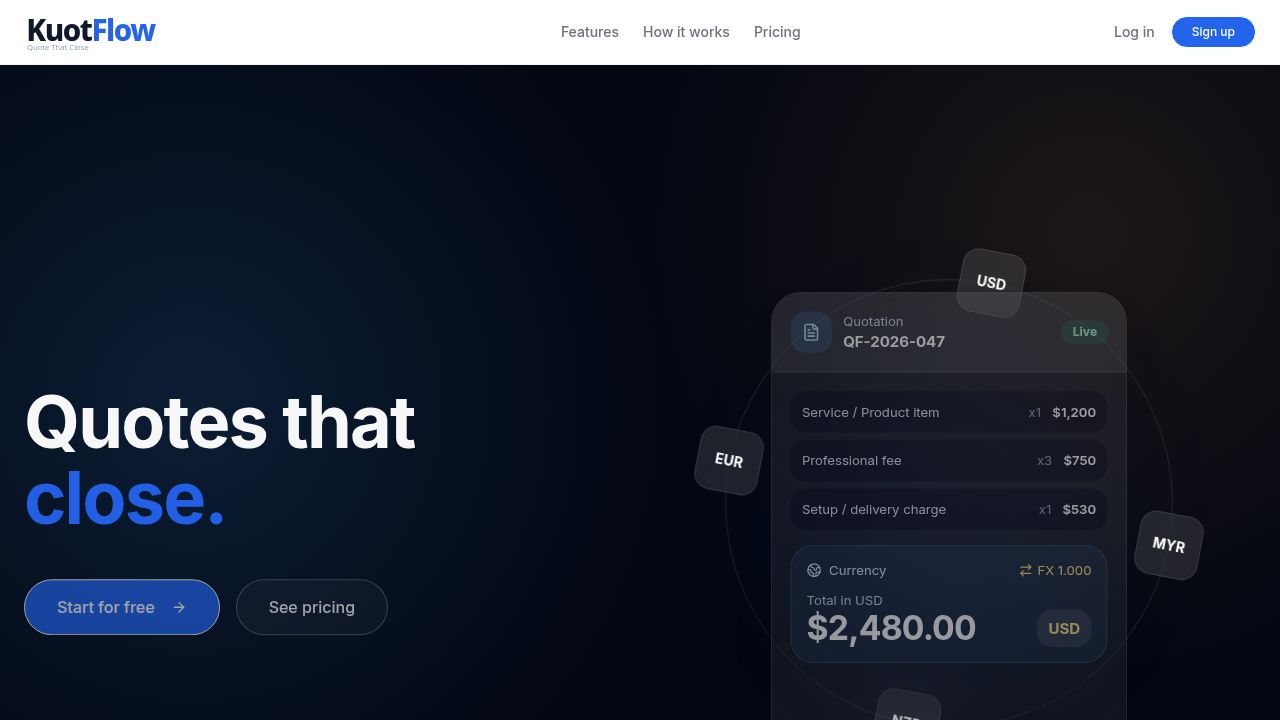
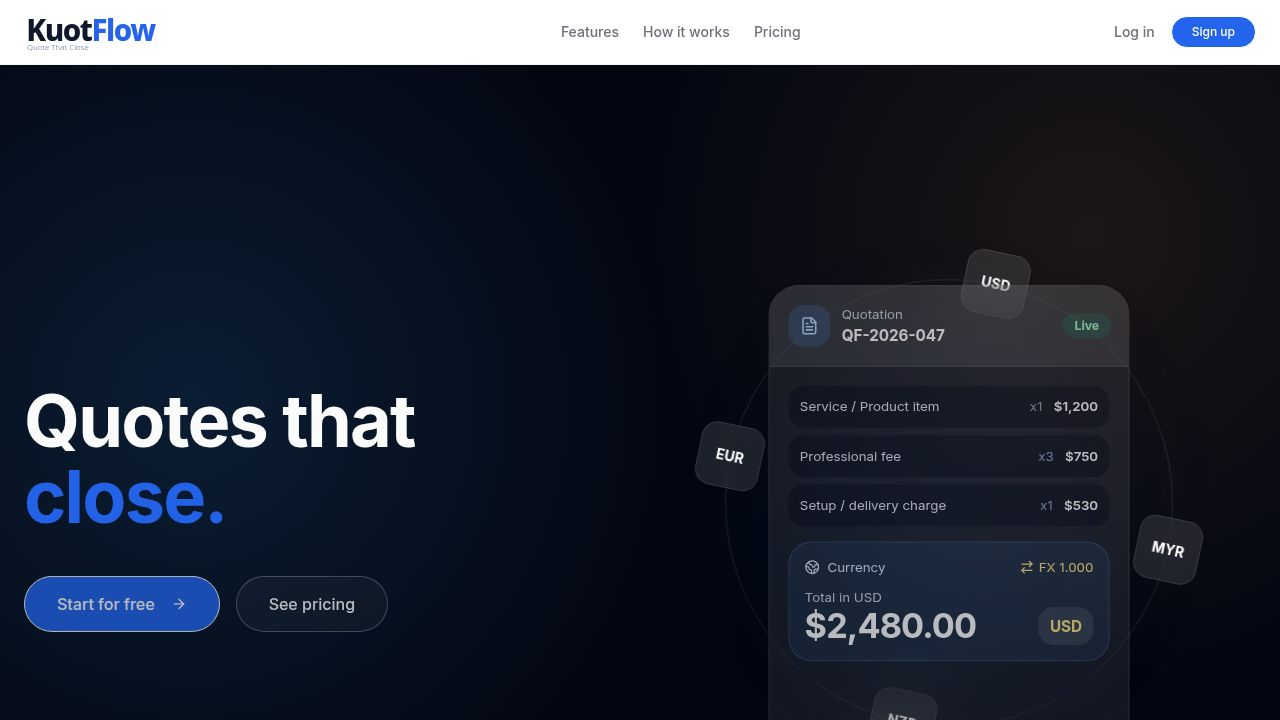
Add sitemap.xml, robots.txt, and Privacy/Terms pages for SEO (Task #172)
## What was done
- Updated `artifacts/marketing/public/sitemap.xml` to list all real routes:
  - https://procurement-quote-tool.replit.app/ (priority 1.0, weekly)
  - https://procurement-quote-tool.replit.app/privacy (priority 0.4, monthly)
  - https://procurement-quote-tool.replit.app/terms (priority 0.4, monthly)
  - Removed the hash-fragment entries (#features, #pricing, #faq) that were
    previously in the sitemap — search engines do not index anchors as pages
  - All lastmod dates updated to 2026-05-17
- `artifacts/marketing/public/robots.txt` was already correct (User-agent: *,
  Allow: /, Disallow: /app/, Sitemap pointing to canonical domain) — no changes needed
- Created `artifacts/marketing/src/pages/privacy.tsx` — full Privacy Policy page
  at /privacy route, using MarketingLayout
- Created `artifacts/marketing/src/pages/terms.tsx` — full Terms of Service page
  at /terms route, using MarketingLayout
- Updated `artifacts/marketing/src/App.tsx` to register /privacy and /terms routes
- Fixed footer links in `marketing-layout.tsx`: Privacy and Terms were pointing to
  #faq as placeholders; now correctly link to /privacy and /terms

## Deviations
- The task mentioned only sitemap.xml and robots.txt, but listing /privacy and /terms
  in the sitemap required those routes to actually exist (a sitemap pointing to 404
  pages would harm SEO). Creating the pages was therefore a necessary prerequisite.
[…]

diff --git a/artifacts/marketing/src/pages/terms.tsx b/artifacts/marketing/src/pages/terms.tsx
@@ -1,0 +1,116 @@
+import { MarketingLayout } from "@/components/layout/marketing-layout";
+
+export default function Terms() {
+  return (
+    <MarketingLayout>
+      <section className="container mx-auto px-4 md:px-6 py-16 max-w-3xl">
+        <h1 className="text-3xl font-bold mb-2">Terms of Service</h1>
+        <p className="text-muted-foreground text-sm mb-10">Last updated: May 17, 2026</p>
+
+        <div className="prose prose-neutral dark:prose-invert max-w-none space-y-8 text-sm leading-relaxed text-foreground/80">
+          <section>
+            <h2 className="text-lg font-semibold text-foreground mb-3">1. Acceptance of Terms</h2>
+            <p>
+              By creating an account or using KuotFlow ("Service"), you agree to be bound by these
+              Terms of Service. If you do not agree, do not use the Service.
+            </p>
+          </section>
+
+          <section>
+            <h2 className="text-lg font-semibold text-foreground mb-3">2. Description of Service</h2>
+            <p>
+              KuotFlow is a web-based quotation management platform for IT service providers. It
+              allows users to create, send, and track professional quotations and invoices. Features
+              are subject to change with reasonable notice.
+            </p>
+          </section>
+
+          <section>
+            <h2 className="text-lg font-semibold text-foreground mb-3">3. Account Registration</h2>
+            <p>
+              You must provide accurate information when registering. You are responsible for
+              maintaining the confidentiality of your credentials and for all activity under your
+              account. Notify us immediately at{" "}
+              <a href="mailto:[email redacted]" className="underline">[email redacted]</a>{" "}
+              if you suspect unauthorised access.
+            </p>
+          </section>
+
+          <section>
+            <h2 className="text-lg font-semibold text-foreground mb-3">4. Subscriptions and Billing</h2>
+            <p>
+              Paid plans are billed in advance on the cycle you select (daily, weekly, monthly, or
+              yearly). Payments are processed via Stripe. Subscriptions renew automatically unless
+              cancelled before the renewal date. Refunds are not provided for partial periods, except
+              where required by law.
+            </p>
+          </section>
+
+          <section>
+            <h2 className="text-lg font-semibold text-foreground mb-3">5. Acceptable Use</h2>
+            <p>You agree not to:</p>
+            <ul className="list-disc pl-5 mt-2 space-y-1">
+              <li>Use the Service for any unlawful purpose</li>
+              <li>Attempt to gain unauthorised access to our systems</li>
+              <li>Transmit spam, malware, or other harmful content</li>
+              <li>Reverse-engineer or copy the Service</li>
+              <li>Resell or sublicense access without written permission</li>
+            </ul>
+          </section>
+
+          <section>
+            <h2 className="text-lg font-semibold text-foreground mb-3">6. Intellectual Property</h2>
+            <p>
+              KuotFlow and its underlying software, design, and branding are owned by us. You retain
+              ownership of all quotation data and client information you input into the Service.
+              You grant us a limited licence to process that data solely to provide the Service.
+            </p>
+          </section>
+
+          <section>
+            <h2 className="text-lg font-semibold text-foreground mb-3">7. Limitation of Liability</h2>
+            <p>
+              To the maximum extent permitted by law, KuotFlow is provided "as is" without warranties
+              of any kind. We are not liable for indirect, incidental, or consequential damages arising
+              from your use of the Service. Our total liability shall not exceed the amount you paid us
+              in the 12 months preceding the claim.
+            </p>
+          </section>
+
+          <section>
+            <h2 className="text-lg font-semibold text-foreground mb-3">8. Termination</h2>
+            <p>
+              You may cancel your account at any time from the billing settings. We may suspend or
+              terminate accounts that violate these Terms with reasonable notice, or immediately
+              where there is a risk of harm to the Service or other users.
+            </p>
+          </section>
+
+          <section>
+            <h2 className="text-lg font-semibold text-foreground mb-3">9. Changes to Terms</h2>
+            <p>
+              We may update these Terms from time to time. We will notify you of material changes at
+              least 14 days in advance. Continued use after the effective date constitutes acceptance.
+            </p>
+          </section>
+
+          <section>
+            <h2 className="text-lg font-semibold text-foreground mb-3">10. Governing Law</h2>
+            <p>
+              These Terms are governed by the laws of England and Wales. Any disputes shall be
+              subject to the exclusive jurisdiction of the courts of England and Wales.
+            </p>
+          </section>
+
+          <section>
+            <h2 className="text-lg font-semibold text-foreground mb-3">11. Contact</h2>
+            <p>
+              Questions about these Terms? Email us at{" "}
+              <a href="mailto:[email redacted]" className="underline">[email redacted]</a>.
+            </p>
+          </section>
+        </div>
+      </section>
+    </MarketingLayout>
+  );
+}

diff --git a/artifacts/marketing/src/pages/privacy.tsx b/artifacts/marketing/src/pages/privacy.tsx
@@ -1,0 +1,96 @@
+import { MarketingLayout } from "@/components/layout/marketing-layout";
+
+export default function Privacy() {
+  return (
+    <MarketingLayout>
+      <section className="container mx-auto px-4 md:px-6 py-16 max-w-3xl">
+        <h1 className="text-3xl font-bold mb-2">Privacy Policy</h1>
+        <p className="text-muted-foreground text-sm mb-10">Last updated: May 17, 2026</p>
+
+        <div className="prose prose-neutral dark:prose-invert max-w-none space-y-8 text-sm leading-relaxed text-foreground/80">
+          <section>
+            <h2 className="text-lg font-semibold text-foreground mb-3">1. Information We Collect</h2>
+            <p>
+              We collect information you provide directly, such as your name, email address, and billing
+              information when you create an account or subscribe to a plan. We also collect usage data
+              automatically, including pages visited, features used, and device/browser information.
+            </p>
+          </section>
+
+          <section>
+            <h2 className="text-lg font-semibold text-foreground mb-3">2. How We Use Your Information</h2>
+            <p>We use the information we collect to:</p>
+            <ul className="list-disc pl-5 mt-2 space-y-1">
+              <li>Provide, maintain, and improve the KuotFlow service</li>
+              <li>Process payments and manage your subscription</li>
+              <li>Send transactional emails such as invoices and quotation notifications</li>
+              <li>Respond to support requests and enquiries</li>
+              <li>Monitor for fraud and abuse</li>
+            </ul>
+          </section>
+
+          <section>
+            <h2 className="text-lg font-semibold text-foreground mb-3">3. Data Sharing</h2>
+            <p>
+              We do not sell your personal data. We share data only with trusted service providers
+              (such as Stripe for payment processing and cloud infrastructure providers) strictly to
+              operate the service, and as required by law.
+            </p>
+          </section>
+
+          <section>
+            <h2 className="text-lg font-semibold text-foreground mb-3">4. Data Retention</h2>
+            <p>
+              We retain your account data for as long as your account is active. After account deletion
+              we retain minimal records for up to 90 days for fraud prevention, then permanently delete
+              your data.
+            </p>
+          </section>
+
+          <section>
+            <h2 className="text-lg font-semibold text-foreground mb-3">5. Security</h2>
+            <p>
+              We use industry-standard encryption in transit (TLS) and at rest. Access to production
+              systems is restricted to authorised personnel only.
+            </p>
+          </section>
+
+          <section>
+            <h2 className="text-lg font-semibold text-foreground mb-3">6. Your Rights</h2>
+            <p>
+              You may access, correct, or delete your personal data at any time by contacting us at{" "}
+              <a href="mailto:[email redacted]" className="underline">[email redacted]</a>.
+              EU/UK residents have additional rights under GDPR/UK GDPR including data portability
+              and the right to object to processing.
+            </p>
+          </section>
+
+          <section>
+            <h2 className="text-lg font-semibold text-foreground mb-3">7. Cookies</h2>
+            <p>
+              We use essential session cookies required for authentication and a small number of
+              analytics cookies to understand aggregate usage. You may disable non-essential cookies
+              in your browser settings at any time.
+            </p>
+          </section>
+
+          <section>
+            <h2 className="text-lg font-semibold text-foreground mb-3">8. Changes to This Policy</h2>
+            <p>
+              We may update this policy from time to time. We will notify you of material changes by
+              email or via an in-app notice at least 14 days before they take effect.
+            </p>
+          </section>
+
+          <section>
+            <h2 className="text-lg font-semibold text-foreground mb-3">9. Contact</h2>
+            <p>
+              Questions about this policy? Email us at{" "}
+              <a href="mailto:[email redacted]" className="underline">[email redacted]</a>.
+            </p>
+          </section>
+        </div>
+      </section>
+    </MarketingLayout>
+  );
+}

diff --git a/artifacts/marketing/src/App.tsx b/artifacts/marketing/src/App.tsx
@@ -4,6 +4,8 @@ import { Toaster } from "@/components/ui/toaster";
 import { TooltipProvider } from "@/components/ui/tooltip";
 import NotFound from "@/pages/not-found";
 import Home from "@/pages/home";
+import Privacy from "@/pages/privacy";
+import Terms from "@/pages/terms";
 
 const queryClient = new QueryClient();
 
@@ -19,6 +21,8 @@ function Router() {
   return (
     <Switch>
       <Route path="/" component={Home} />
+      <Route path="/privacy" component={Privacy} />
+      <Route path="/terms" component={Terms} />
       <Route component={NotFound} />
     </Switch>
   );

diff --git a/artifacts/marketing/src/components/layout/marketing-layout.tsx b/artifacts/marketing/src/components/layout/marketing-layout.tsx
@@ -77,8 +77,8 @@ export function MarketingLayout({ children }: MarketingLayoutProps) {
               <h3 className="font-semibold mb-4 text-sm">Company</h3>
               <ul className="space-y-3 text-sm text-muted-foreground">
                 <li><a href="#how-it-works" className="hover:text-foreground">How it works</a></li>
-                <li><a href="#faq" className="hover:text-foreground">Privacy</a></li>
-                <li><a href="#faq" className="hover:text-foreground">Terms</a></li>
+                <li><a href="/privacy" className="hover:text-foreground">Privacy</a></li>
+                <li><a href="/terms" className="hover:text-foreground">Terms</a></li>
               </ul>
             </div>
           </div>